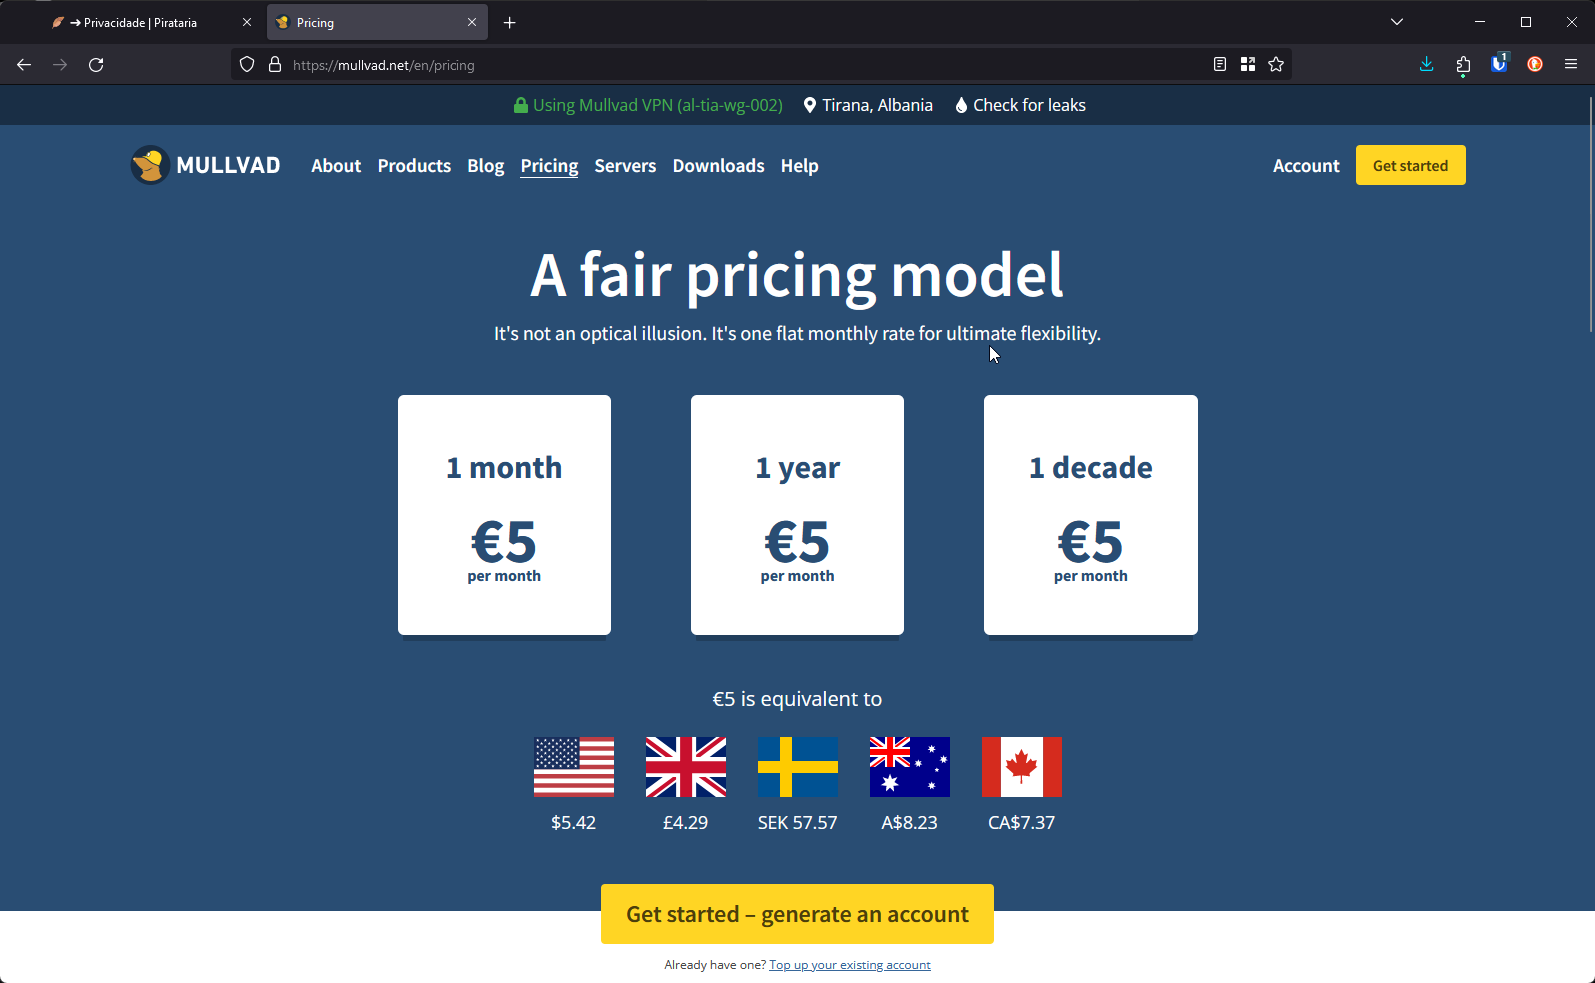
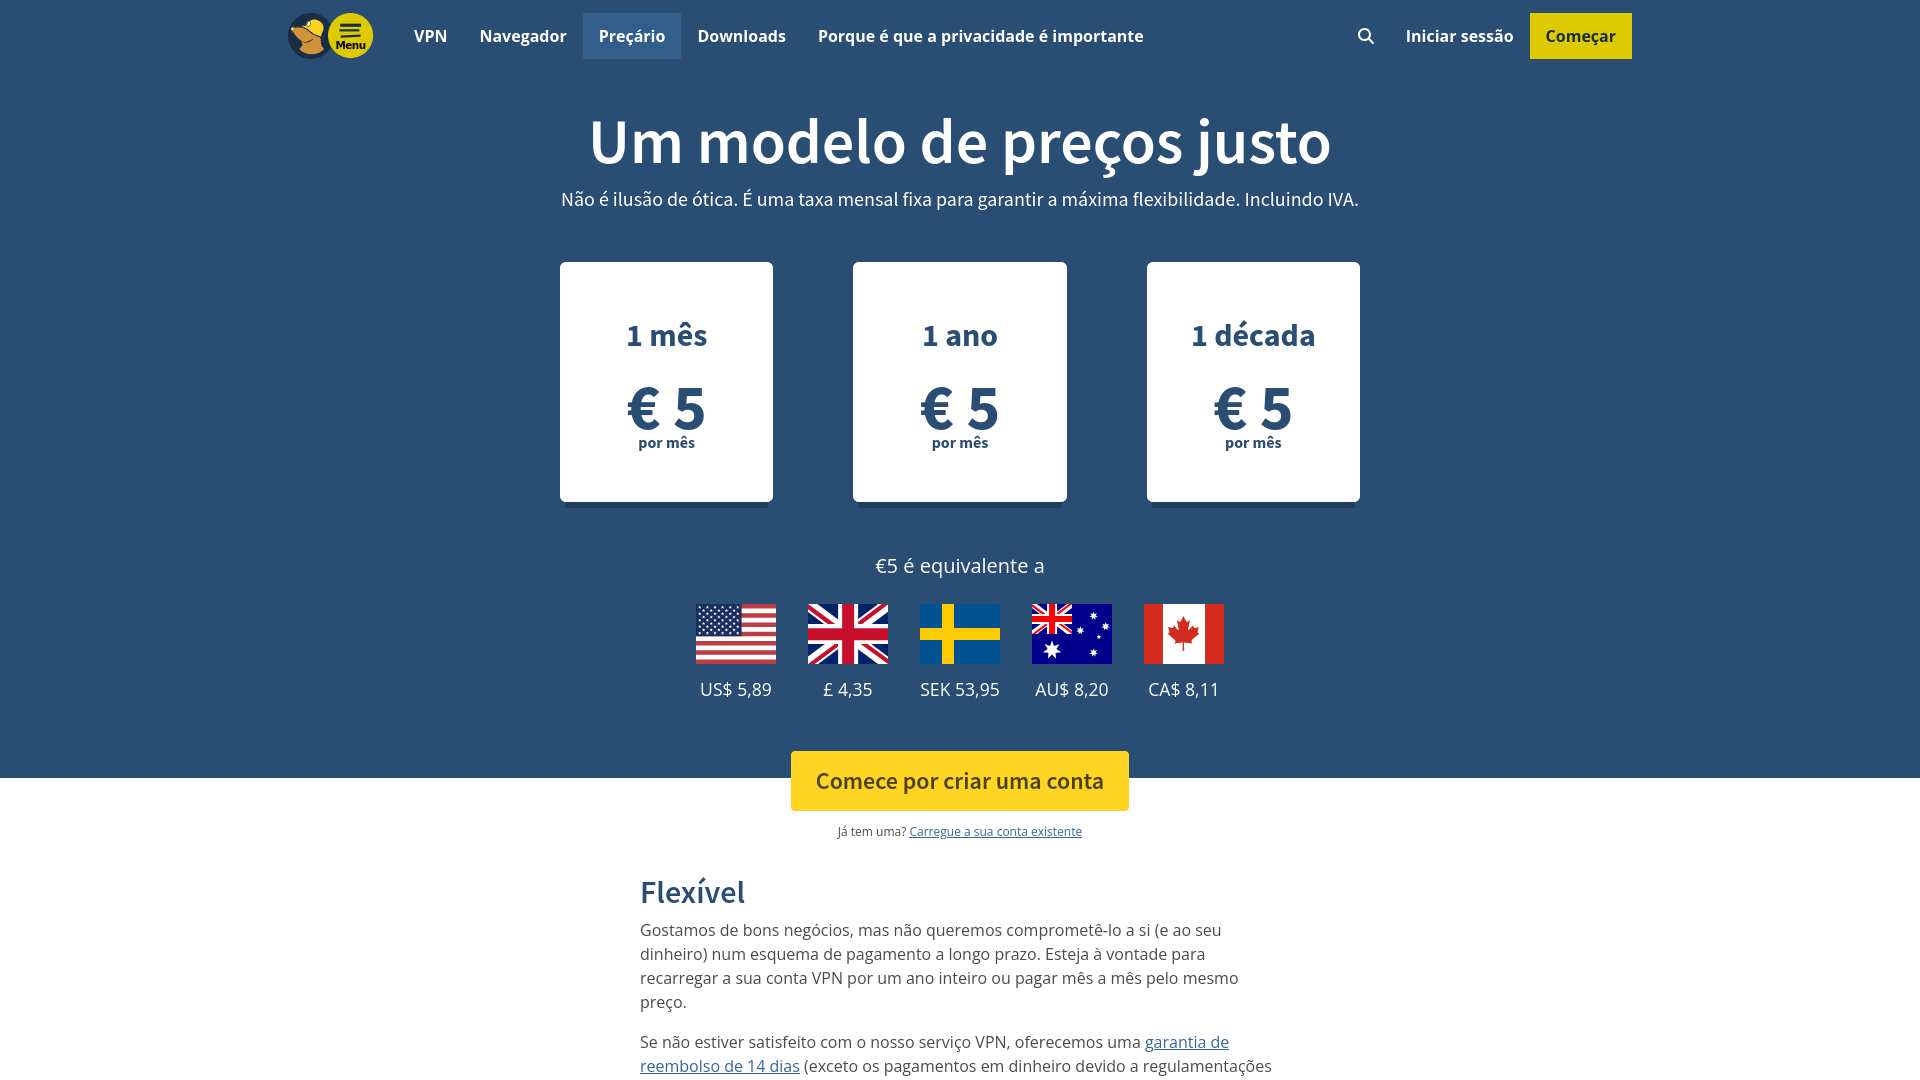
Melhorias gerais no tópico sobre VPNs

diff --git a/docs/privacidade.md b/docs/privacidade.md
@@ -104,35 +104,84 @@ O Bitwarden é um gerenciador de senhas de código aberto e plataforma de segura
 
 O KeePassXC é um gerenciador de senhas de código aberto e local, projetado para armazenar e gerar senhas seguras de forma criptografada. Ele oferece recursos como a organização de senhas em um banco de dados protegido por senha mestra, autenticação de dois fatores e a capacidade de sincronização de banco de dados entre dispositivos. O KeePassXC é altamente personalizável e suporta uma variedade de recursos adicionais, como anexos de arquivos e campos personalizados.
 
-## VPN
+## :lock: VPN
 
-Uma VPN (Virtual Private Network - Rede Virtual Privada) é uma tecnologia que cria uma conexão segura e criptografada entre o dispositivo do usuário e um servidor remoto. Essa conexão permite que o usuário navegue na internet de forma segura, protegendo sua privacidade e anonimato online. As VPNs são utilizadas para ocultar o endereço IP do usuário, contornar restrições geográficas, proteger dados sensíveis contra hackers em redes públicas, e acessar conteúdos bloqueados por governos ou empresas. Elas funcionam criptografando o tráfego de dados, tornando-o ilegível para qualquer pessoa que tente interceptá-lo. As VPNs também podem ser usadas para acesso remoto a redes corporativas de forma segura. No entanto, é importante escolher um provedor de VPN confiável que mantenha uma política rigorosa de não registro e ofereça velocidades de conexão satisfatórias.
+Uma VPN (Virtual Private Network - Rede Virtual Privada) é uma tecnologia que cria uma conexão segura e criptografada entre o dispositivo do usuário e um servidor remoto. Essa conexão permite que o usuário navegue na internet de forma segura, protegendo sua privacidade online. As VPNs são utilizadas para ocultar o endereço IP do usuário, contornar restrições geográficas, proteger dados sensíveis contra hackers em redes públicas, e acessar conteúdos bloqueados por governos ou empresas. Elas funcionam criptografando o tráfego de dados, tornando-o ilegível para qualquer pessoa que tente interceptá-lo. As VPNs também podem ser usadas para acesso remoto a redes corporativas de forma segura. No entanto, é importante escolher um provedor de VPN confiável que mantenha uma política rigorosa de não registro e ofereça velocidades de conexão satisfatórias.
 
-### [Mullvad VPN](https://mullvad.net/)
+::: tip Nesse tópico não utilizamos links comissionados
+Alguns sites e influenciadores recomendam VPNs duvidosas apenas pela comissão, prejudicando sua audiência em troca de dinheiro. Nesse tópico não utilizamos links comissionados. Você pode verificar por conta própria, analisando os links
+:::
 
-- Barata, rápida e com vários servidores
-- Suporta Monero
+::: danger VPN não é uma garantia de anonimato
+Uma VPN ajuda a proteger sua privacidade online, criptografando seu tráfego e ocultando seu IP. No entanto, ela não garante anonimato total, pois ainda existem formas de rastrear suas atividades, como cookies e metadados. Para anonimato completo, outras ferramentas, como o Tor, podem ser necessárias
+:::
+
+### [Mullvad VPN](https://mullvad.net/pt)
+Considerada a melhor VPN disponível no mercado em termos de privacidade e segurança. Um dos seus principais diferenciais é que não exige e-mail ou dados pessoais para criar uma conta, sendo o acesso feito por meio de um número gerado automaticamente.
+
+- Sem registos
+- [Código aberto](https://github.com/mullvad)
+- Jurisdição segura
+- Suporta Monero para pagamentos anônimos
+- Aceita criptomoeda(s): Bitcoin (On-chain e Lightning Network) e Bitcoin Cash
+
+:::info Disponível nas plataformas
+Linux, Windows, macOS, Android e iOS
+:::
 
 ![Mullvad](./images/mullvad_vpn.png)
 
+### [Proton VPN](https://protonvpn.com/pt-br)
+Logo depois da Mullvad, a Proton VPN é geralmente considerada uma das melhores opções do mercado. Ela é desenvolvida pela equipe da Proton, a mesma por trás do Proton Mail, e tem uma forte reputação em proteção de dados.
+
+- Sem registos
+- [Código aberto](https://github.com/ProtonVPN)
+- Jurisdição segura
+- Preços regionalizados
+- Permite port forwarding
+- Aceita criptomoeda(s): Bitcoin (On-chain)
+
+:::info Disponível nas plataformas
+Linux, Windows, macOS, Android e iOS
+:::
+
+![Proton VPN](./images/proton_vpn.png)
+
 ### [IVPN](https://www.ivpn.net/)
+Considerada uma das opções mais sólidas junto de serviços como Mullvad e Proton VPN, sendo bastante valorizada por quem prioriza privacidade máxima na internet.
 
-- Ótima alternativa para a Mullvad VPN
+- Sem registos
+- [Código aberto](https://github.com/ivpn)
+- Suporta Monero para pagamentos anônimos
+- Aceita criptomoeda(s): Bitcoin (On-chain e Lightning Network)
 
-### [Private Internet Access](https://www.privateinternetaccess.com/)
+:::info Disponível nas plataformas
+Linux, Windows, macOS, Android e iOS
+:::
 
-- Suporta port-forwarding, fazendo suportar a rede P2P (peer-to-peer)
+![IVPN](./images/ivpn.png)
 
-### [ProtonVPN](https://protonvpn.com)
+Se nenhuma das opções acima atender aos seus requisitos, você pode tentar essas alternativas. Elas não são tão confiáveis ou seguras quanto as mencionadas anteriormente, mas funcionam:
 
-- Suporta port-forwarding, fazendo suportar a rede P2P (peer-to-peer)
+### [Private Internet Access](https://www.privateinternetaccess.com/pt/)
+- Permite port forwarding
 
-### [AirVPN](https://airvpn.org/buy/)
+### [AirVPN](https://airvpn.org/)
+- [Código aberto](https://github.com/AirVPN)
+- Permite port forwarding
+- Suporta Monero para pagamentos anônimos
 
-- Suporta port-forwarding, fazendo suportar a rede P2P (peer-to-peer)
-- Suporta Monero
+:::warning Evite se possível
+AirVPN deve ser a última opção como VPN, seus servidores não são bons
+:::
 
-:::warning AirVPN deve ser a última opção como VPN, seus servidores não são bons
+### Links úteis para esse tópico
+::: tip [Techlore VPN Toolkit](https://vpn.techlore.tech/)  
+Compare provedores de VPN com vários filtros. Analise práticas de privacidade, recursos de segurança, jurisdições e especificações técnicas para encontrar o melhor serviço de VPN para suas necessidades específicas  
+:::
+
+::: tip [Kumu](https://embed.kumu.io/9ced55e897e74fd807be51990b26b415#vpn-company-relationships)
+Analise os financiadores, influenciadores e as polêmicas envolvidas em cada provedor de VPN
 :::
 
 ## Bloqueador de anúncios e rastreadores